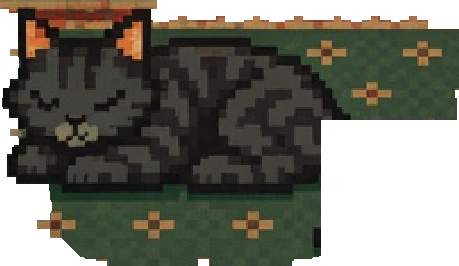
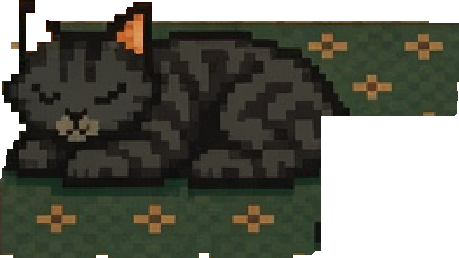
Santa with cookies, toys, stockings sway, glints, mice tails, firelight shadows

diff --git a/index.html b/index.html
@@ -4,16 +4,30 @@ html,body{margin:0;height:100%;background:#0d0a0a;overflow:hidden}
 .s{position:absolute;left:50%;top:50%;transform:translate(-50%,-50%);width:max(100vw,177.78vh);height:max(56.25vw,100vh);background:url(bg.png) 0 0/100% 100%;image-rendering:pixelated;overflow:hidden}
 @media (max-aspect-ratio:4/3){.s{width:min(100vw,177.78vh);height:min(56.25vw,100vh)}}
 .s>*{position:absolute;pointer-events:none;image-rendering:pixelated}
-#snow{left:5.339%;top:10.526%;width:12.562%;height:26.475%;z-index:1}.lt{width:.45%;height:.8%;margin:-.4% 0 0 -.22%;background:radial-gradient(circle,rgba(255,250,200,.95) 0 25%,rgba(255,210,110,.5) 45%,transparent 70%);z-index:5;animation:tw 2s steps(3) infinite}@keyframes tw{0%,100%{opacity:.15}50%{opacity:1}}.wframe{z-index:2}
+#snow{left:5.384%;top:10.526%;width:12.427%;height:26.555%;z-index:1}.lt{width:.45%;height:.8%;margin:-.4% 0 0 -.22%;background:radial-gradient(circle,rgba(255,250,200,.95) 0 25%,rgba(255,210,110,.5) 45%,transparent 70%);z-index:5;animation:tw 2s steps(3) infinite}@keyframes tw{0%,100%{opacity:.15}50%{opacity:1}}.wframe{z-index:2}.santa,.sarm{z-index:3}[class*=stk],[class*=mt]{z-index:2}
+@keyframes cookie{0%,55%,100%{transform:rotate(0)}70%{transform:rotate(6deg)}82%{transform:rotate(-1deg)}88%{transform:rotate(0)}}
+@keyframes stk{0%,100%{transform:rotate(-1.6deg)}50%{transform:rotate(1.6deg)}}
+@keyframes wig{0%,80%,100%{transform:rotate(0)}85%{transform:rotate(-12deg)}90%{transform:rotate(8deg)}95%{transform:rotate(-4deg)}}
+.gl{width:calc(var(--z)*.6%);height:calc(var(--z)*1.07%);margin:calc(var(--z)*-.3%) 0 0 calc(var(--z)*-.53%);z-index:5;background:linear-gradient(#fff8d0,#fff8d0) center/22% 100% no-repeat,linear-gradient(#fff8d0,#fff8d0) center/100% 22% no-repeat;opacity:0;animation:gl 5s steps(4) infinite}
+@keyframes gl{0%,82%,100%{opacity:0;transform:scale(.4)}88%{opacity:.9;transform:scale(1)}94%{opacity:.3;transform:scale(.6)}}
 #fire{left:38.896%;top:33.094%;width:21.983%;height:28.708%;opacity:.9;mix-blend-mode:screen;--m:linear-gradient(90deg,transparent,#000 12%,#000 88%,transparent),linear-gradient(transparent 0,transparent 15%,#000 65%);-webkit-mask-image:var(--m);mask-image:var(--m);-webkit-mask-composite:source-in;mask-composite:intersect}
 .front{z-index:2}.ttail,.tbody,.ktail,.kbody,.khead{z-index:3}
+.santa{left:6.236%;top:31.419%;width:21.579%;height:44.577%;transform-origin:50% 100%;animation:br 4.8s ease-in-out infinite}
+.sarm{left:16.106%;top:44.258%;width:7.313%;height:9.569%;transform-origin:80.4% 90.8%;animation:cookie 6s ease-in-out infinite}
+.stk0{left:59.578%;top:19.458%;width:4.711%;height:14.035%;transform-origin:49.5% 0.0%;animation:stk 3.20s ease-in-out infinite -0.0s}
+.stk1{left:35.711%;top:19.537%;width:4.800%;height:13.955%;transform-origin:54.2% 0.0%;animation:stk 3.65s ease-in-out infinite -0.7s}
+.stk2{left:48.183%;top:19.537%;width:4.172%;height:13.158%;transform-origin:51.6% 0.0%;animation:stk 4.10s ease-in-out infinite -1.4s}
+.stk3{left:42.351%;top:19.139%;width:4.127%;height:13.557%;transform-origin:51.1% 0.0%;animation:stk 4.55s ease-in-out infinite -2.1s}
+.stk4{left:54.195%;top:19.219%;width:4.083%;height:13.477%;transform-origin:51.6% 0.0%;animation:stk 5.00s ease-in-out infinite -2.8s}
+.mt0{left:68.506%;top:90.271%;width:1.570%;height:2.233%;transform-origin:0.0% 35.7%;animation:wig 7s ease-in-out infinite -0s}
+.mt1{left:73.127%;top:93.301%;width:3.365%;height:3.030%;transform-origin:0.0% 34.2%;animation:wig 9s ease-in-out infinite -3s}
 .front{left:38.896%;top:43.062%;width:21.983%;height:18.740%;transform-origin:50% 100%;animation:none}
 .ttail{left:48.362%;top:62.121%;width:4.666%;height:9.250%;transform-origin:47.1% 0.9%;animation:sway 7s ease-in-out infinite}
-.tbody{left:36.205%;top:52.951%;width:16.151%;height:18.421%;transform-origin:50% 100%;animation:br 4.4s ease-in-out infinite}
-.ktail{left:52.355%;top:84.370%;width:6.101%;height:10.845%;transform-origin:5.9% 67.6%;animation:flick 9s ease-in-out infinite}
-.kbody{left:37.954%;top:74.801%;width:20.592%;height:21.212%;transform-origin:50% 100%;animation:br 5.2s ease-in-out infinite -2s}
-.khead{left:37.954%;top:74.801%;width:6.819%;height:21.212%;transform-origin:99.3% 89.5%;animation:bob 11s ease-in-out infinite}
-.wframe{left:5.070%;top:10.048%;width:13.100%;height:27.432%;transform-origin:50% 50%;animation:none}
+.tbody{left:36.205%;top:52.951%;width:16.779%;height:18.421%;transform-origin:50% 100%;animation:br 4.4s ease-in-out infinite}
+.ktail{left:52.355%;top:84.769%;width:6.146%;height:10.766%;transform-origin:5.8% 65.9%;animation:flick 9s ease-in-out infinite}
+.kbody{left:37.954%;top:75.518%;width:20.592%;height:20.574%;transform-origin:50% 100%;animation:br 5.2s ease-in-out infinite -2s}
+.khead{left:37.954%;top:75.518%;width:6.819%;height:20.574%;transform-origin:99.3% 89.5%;animation:bob 11s ease-in-out infinite}
+.wframe{left:5.114%;top:10.048%;width:12.965%;height:27.512%;transform-origin:50% 50%;animation:none}
 @keyframes br{0%,100%{transform:scaleY(1)}50%{transform:scaleY(1.018)}}
 @keyframes sway{0%,100%{transform:rotate(-3deg)}50%{transform:rotate(4deg)}}
 @keyframes flick{0%,80%,100%{transform:rotate(0)}84%{transform:rotate(-9deg)}88%{transform:rotate(3deg)}92%{transform:rotate(-5deg)}}
@@ -26,61 +40,86 @@ html,body{margin:0;height:100%;background:#0d0a0a;overflow:hidden}
 </style></head><body><div class="s">
 <canvas id="snow" width="64" height="76"></canvas>
 <canvas id="fire" width="96" height="72"></canvas>
+<img class="sp santa" src="santa.png" alt="">
+<img class="sp sarm" src="sarm.png" alt="">
+<img class="sp stk0" src="stk0.png" alt="">
+<img class="sp stk1" src="stk1.png" alt="">
+<img class="sp stk2" src="stk2.png" alt="">
+<img class="sp stk3" src="stk3.png" alt="">
+<img class="sp stk4" src="stk4.png" alt="">
+<img class="sp mt0" src="mt0.png" alt="">
+<img class="sp mt1" src="mt1.png" alt="">
+<i class="gl" style="left:25.71%;top:27.75%;--z:0.5;animation-duration:4.3s;animation-delay:-0.9s"></i>
+<i class="gl" style="left:79.59%;top:6.94%;--z:1.1;animation-duration:5.6s;animation-delay:-0.4s"></i>
+<i class="gl" style="left:72.27%;top:78.95%;--z:0.5;animation-duration:5.1s;animation-delay:-2.2s"></i>
+<i class="gl" style="left:71.78%;top:79.74%;--z:0.4;animation-duration:3.2s;animation-delay:-3.0s"></i>
+<i class="gl" style="left:28.31%;top:74.32%;--z:0.6;animation-duration:3.1s;animation-delay:-2.6s"></i>
+<i class="gl" style="left:31.27%;top:83.01%;--z:0.6;animation-duration:3.3s;animation-delay:-0.5s"></i>
+<i class="gl" style="left:34.19%;top:88.52%;--z:0.6;animation-duration:4.7s;animation-delay:-5.0s"></i>
+<i class="gl" style="left:72.27%;top:65.07%;--z:0.6;animation-duration:3.5s;animation-delay:-1.3s"></i>
+<i class="gl" style="left:79.59%;top:70.33%;--z:0.6;animation-duration:5.5s;animation-delay:-5.7s"></i>
+<i class="gl" style="left:8.03%;top:64.27%;--z:0.5;animation-duration:5.3s;animation-delay:-2.4s"></i>
 <img class="sp front" src="front.png" alt="">
 <img class="sp ttail" src="ttail.png" alt="">
 <img class="sp tbody" src="tbody.png" alt="">
 <img class="sp ktail" src="ktail.png" alt="">
 <img class="sp kbody" src="kbody.png" alt="">
 <img class="sp khead" src="khead.png" alt="">
-<i class="lt" style="left:78.80%;top:10.81%;animation-duration:1.92s;animation-delay:-1.63s"></i>
-<i class="lt" style="left:79.61%;top:15.79%;animation-duration:2.21s;animation-delay:-1.81s"></i>
-<i class="lt" style="left:81.65%;top:18.78%;animation-duration:2.78s;animation-delay:-0.20s"></i>
-<i class="lt" style="left:79.78%;top:21.35%;animation-duration:1.43s;animation-delay:-2.51s"></i>
-<i class="lt" style="left:77.39%;top:24.08%;animation-duration:1.97s;animation-delay:-0.70s"></i>
-<i class="lt" style="left:82.94%;top:24.11%;animation-duration:3.59s;animation-delay:-1.41s"></i>
-<i class="lt" style="left:81.20%;top:26.20%;animation-duration:3.24s;animation-delay:-1.43s"></i>
-<i class="lt" style="left:79.05%;top:28.51%;animation-duration:2.81s;animation-delay:-0.45s"></i>
-<i class="lt" style="left:81.39%;top:30.72%;animation-duration:2.80s;animation-delay:-2.60s"></i>
-<i class="lt" style="left:77.68%;top:31.46%;animation-duration:2.55s;animation-delay:-2.22s"></i>
-<i class="lt" style="left:76.00%;top:34.29%;animation-duration:2.88s;animation-delay:-0.19s"></i>
-<i class="lt" style="left:84.52%;top:34.60%;animation-duration:3.07s;animation-delay:-1.77s"></i>
-<i class="lt" style="left:78.95%;top:35.92%;animation-duration:2.06s;animation-delay:-0.09s"></i>
-<i class="lt" style="left:79.09%;top:35.61%;animation-duration:3.30s;animation-delay:-1.42s"></i>
-<i class="lt" style="left:75.68%;top:37.92%;animation-duration:2.98s;animation-delay:-2.64s"></i>
-<i class="lt" style="left:82.48%;top:38.16%;animation-duration:2.97s;animation-delay:-2.76s"></i>
-<i class="lt" style="left:82.53%;top:38.66%;animation-duration:2.27s;animation-delay:-2.40s"></i>
-<i class="lt" style="left:85.94%;top:40.72%;animation-duration:2.38s;animation-delay:-2.81s"></i>
-<i class="lt" style="left:78.76%;top:42.39%;animation-duration:3.33s;animation-delay:-0.29s"></i>
-<i class="lt" style="left:81.44%;top:43.99%;animation-duration:1.70s;animation-delay:-0.65s"></i>
-<i class="lt" style="left:76.53%;top:43.98%;animation-duration:3.52s;animation-delay:-1.31s"></i>
-<i class="lt" style="left:81.67%;top:44.54%;animation-duration:2.78s;animation-delay:-0.90s"></i>
-<i class="lt" style="left:86.47%;top:45.05%;animation-duration:2.52s;animation-delay:-1.16s"></i>
-<i class="lt" style="left:83.60%;top:45.77%;animation-duration:2.17s;animation-delay:-1.76s"></i>
-<i class="lt" style="left:78.33%;top:46.81%;animation-duration:2.69s;animation-delay:-2.71s"></i>
-<i class="lt" style="left:85.58%;top:48.14%;animation-duration:2.90s;animation-delay:-2.79s"></i>
-<i class="lt" style="left:85.76%;top:47.97%;animation-duration:3.28s;animation-delay:-2.97s"></i>
-<i class="lt" style="left:87.86%;top:49.72%;animation-duration:2.88s;animation-delay:-0.49s"></i>
-<i class="lt" style="left:81.61%;top:50.01%;animation-duration:3.29s;animation-delay:-2.89s"></i>
-<i class="lt" style="left:75.77%;top:50.40%;animation-duration:3.39s;animation-delay:-1.71s"></i>
-<i class="lt" style="left:84.51%;top:51.22%;animation-duration:2.97s;animation-delay:-0.63s"></i>
-<i class="lt" style="left:79.30%;top:52.67%;animation-duration:3.23s;animation-delay:-1.72s"></i>
-<i class="lt" style="left:87.99%;top:54.42%;animation-duration:2.03s;animation-delay:-0.19s"></i>
-<i class="lt" style="left:74.63%;top:55.34%;animation-duration:3.28s;animation-delay:-2.97s"></i>
-<i class="lt" style="left:83.45%;top:55.58%;animation-duration:1.59s;animation-delay:-2.40s"></i>
-<i class="lt" style="left:78.25%;top:57.17%;animation-duration:2.30s;animation-delay:-0.45s"></i>
-<i class="lt" style="left:82.49%;top:58.34%;animation-duration:2.05s;animation-delay:-2.31s"></i>
-<i class="lt" style="left:86.42%;top:58.72%;animation-duration:3.32s;animation-delay:-0.13s"></i>
-<i class="lt" style="left:80.44%;top:59.13%;animation-duration:2.75s;animation-delay:-0.13s"></i>
-<i class="lt" style="left:75.01%;top:59.38%;animation-duration:2.98s;animation-delay:-0.99s"></i>
-<i class="lt" style="left:75.01%;top:59.77%;animation-duration:3.34s;animation-delay:-2.94s"></i>
-<i class="lt" style="left:89.69%;top:61.12%;animation-duration:2.51s;animation-delay:-3.00s"></i>
-<i class="lt" style="left:81.08%;top:62.71%;animation-duration:2.08s;animation-delay:-0.23s"></i>
-<i class="lt" style="left:76.40%;top:63.92%;animation-duration:2.72s;animation-delay:-0.09s"></i>
-<i class="lt" style="left:79.00%;top:64.51%;animation-duration:1.83s;animation-delay:-1.22s"></i>
-<i class="lt" style="left:87.92%;top:64.66%;animation-duration:2.74s;animation-delay:-0.47s"></i>
-<i class="lt" style="left:84.94%;top:64.85%;animation-duration:1.49s;animation-delay:-2.60s"></i>
-<i class="lt" style="left:82.53%;top:67.04%;animation-duration:2.09s;animation-delay:-2.88s"></i>
-<i class="lt" style="left:78.89%;top:67.73%;animation-duration:3.37s;animation-delay:-1.13s"></i>
+<i class="lt" style="left:79.60%;top:15.79%;animation-duration:1.92s;animation-delay:-1.63s"></i>
+<i class="lt" style="left:81.68%;top:18.80%;animation-duration:2.21s;animation-delay:-1.81s"></i>
+<i class="lt" style="left:79.81%;top:21.42%;animation-duration:2.78s;animation-delay:-0.20s"></i>
+<i class="lt" style="left:77.28%;top:24.00%;animation-duration:1.43s;animation-delay:-2.51s"></i>
+<i class="lt" style="left:77.50%;top:24.20%;animation-duration:1.97s;animation-delay:-0.70s"></i>
+<i class="lt" style="left:83.00%;top:24.16%;animation-duration:3.59s;animation-delay:-1.41s"></i>
+<i class="lt" style="left:77.32%;top:24.36%;animation-duration:3.24s;animation-delay:-1.43s"></i>
+<i class="lt" style="left:81.18%;top:26.24%;animation-duration:2.81s;animation-delay:-0.45s"></i>
+<i class="lt" style="left:81.36%;top:26.12%;animation-duration:2.80s;animation-delay:-2.60s"></i>
+<i class="lt" style="left:79.07%;top:28.50%;animation-duration:2.55s;animation-delay:-2.22s"></i>
+<i class="lt" style="left:81.47%;top:30.67%;animation-duration:2.88s;animation-delay:-0.19s"></i>
+<i class="lt" style="left:83.69%;top:30.42%;animation-duration:3.07s;animation-delay:-1.77s"></i>
+<i class="lt" style="left:83.69%;top:30.86%;animation-duration:2.06s;animation-delay:-0.09s"></i>
+<i class="lt" style="left:77.73%;top:31.42%;animation-duration:3.30s;animation-delay:-1.42s"></i>
+<i class="lt" style="left:81.18%;top:30.98%;animation-duration:2.98s;animation-delay:-2.64s"></i>
+<i class="lt" style="left:76.01%;top:34.34%;animation-duration:2.97s;animation-delay:-2.76s"></i>
+<i class="lt" style="left:78.85%;top:35.65%;animation-duration:2.27s;animation-delay:-2.40s"></i>
+<i class="lt" style="left:78.85%;top:36.16%;animation-duration:2.38s;animation-delay:-2.81s"></i>
+<i class="lt" style="left:79.05%;top:36.16%;animation-duration:3.33s;animation-delay:-0.29s"></i>
+<i class="lt" style="left:75.73%;top:37.87%;animation-duration:1.70s;animation-delay:-0.65s"></i>
+<i class="lt" style="left:82.52%;top:38.70%;animation-duration:3.52s;animation-delay:-1.31s"></i>
+<i class="lt" style="left:85.89%;top:40.39%;animation-duration:2.78s;animation-delay:-0.90s"></i>
+<i class="lt" style="left:86.07%;top:40.31%;animation-duration:2.52s;animation-delay:-1.16s"></i>
+<i class="lt" style="left:85.95%;top:40.88%;animation-duration:2.17s;animation-delay:-1.76s"></i>
+<i class="lt" style="left:78.80%;top:42.46%;animation-duration:2.69s;animation-delay:-2.71s"></i>
+<i class="lt" style="left:76.58%;top:43.93%;animation-duration:2.90s;animation-delay:-2.79s"></i>
+<i class="lt" style="left:81.46%;top:43.99%;animation-duration:3.28s;animation-delay:-2.97s"></i>
+<i class="lt" style="left:83.65%;top:45.89%;animation-duration:2.88s;animation-delay:-0.49s"></i>
+<i class="lt" style="left:78.38%;top:46.82%;animation-duration:3.29s;animation-delay:-2.89s"></i>
+<i class="lt" style="left:89.93%;top:46.85%;animation-duration:3.39s;animation-delay:-1.71s"></i>
+<i class="lt" style="left:85.60%;top:48.37%;animation-duration:2.97s;animation-delay:-0.63s"></i>
+<i class="lt" style="left:87.91%;top:49.72%;animation-duration:3.23s;animation-delay:-1.72s"></i>
+<i class="lt" style="left:81.67%;top:50.00%;animation-duration:2.03s;animation-delay:-0.19s"></i>
+<i class="lt" style="left:75.78%;top:50.46%;animation-duration:3.28s;animation-delay:-2.97s"></i>
+<i class="lt" style="left:84.56%;top:51.28%;animation-duration:1.59s;animation-delay:-2.40s"></i>
+<i class="lt" style="left:79.34%;top:52.72%;animation-duration:2.30s;animation-delay:-0.45s"></i>
+<i class="lt" style="left:88.13%;top:54.59%;animation-duration:2.05s;animation-delay:-2.31s"></i>
+<i class="lt" style="left:72.61%;top:55.14%;animation-duration:3.32s;animation-delay:-0.13s"></i>
+<i class="lt" style="left:74.72%;top:55.46%;animation-duration:2.75s;animation-delay:-0.13s"></i>
+<i class="lt" style="left:83.51%;top:55.59%;animation-duration:2.98s;animation-delay:-0.99s"></i>
+<i class="lt" style="left:78.33%;top:57.26%;animation-duration:3.34s;animation-delay:-2.94s"></i>
+<i class="lt" style="left:86.45%;top:58.49%;animation-duration:2.51s;animation-delay:-3.00s"></i>
+<i class="lt" style="left:80.44%;top:59.21%;animation-duration:2.08s;animation-delay:-0.23s"></i>
+<i class="lt" style="left:86.39%;top:58.94%;animation-duration:2.72s;animation-delay:-0.09s"></i>
+<i class="lt" style="left:89.71%;top:61.22%;animation-duration:1.83s;animation-delay:-1.22s"></i>
+<i class="lt" style="left:81.17%;top:62.85%;animation-duration:2.74s;animation-delay:-0.47s"></i>
+<i class="lt" style="left:76.42%;top:64.07%;animation-duration:1.49s;animation-delay:-2.60s"></i>
+<i class="lt" style="left:78.94%;top:64.47%;animation-duration:2.09s;animation-delay:-2.88s"></i>
+<i class="lt" style="left:79.16%;top:64.47%;animation-duration:3.37s;animation-delay:-1.13s"></i>
+<i class="lt" style="left:91.81%;top:64.47%;animation-duration:2.41s;animation-delay:-1.56s"></i>
+<i class="lt" style="left:84.97%;top:64.91%;animation-duration:2.82s;animation-delay:-1.79s"></i>
+<i class="lt" style="left:79.16%;top:64.83%;animation-duration:2.63s;animation-delay:-1.86s"></i>
+<i class="lt" style="left:82.54%;top:67.12%;animation-duration:3.47s;animation-delay:-1.52s"></i>
+<i class="lt" style="left:78.95%;top:67.77%;animation-duration:2.35s;animation-delay:-2.16s"></i>
+<i class="lt" style="left:81.18%;top:69.90%;animation-duration:1.92s;animation-delay:-0.90s"></i>
 <img class="sp wframe" src="wframe.png" alt="">
 <div id="glow"></div>
 <i class="e" style="left:47%"></i><i class="e" style="left:50%;animation-delay:-1.1s"></i><i class="e" style="left:54%;animation-delay:-2.2s"></i>
@@ -93,7 +132,7 @@ const F=new Uint8Array(w*h);for(let i=0;i<w;i++){const d=Math.abs(i-w/2)/(w/2);F
 const img=x.createImageData(w,h),g=document.getElementById('glow'),rm=matchMedia('(prefers-reduced-motion: reduce)').matches;let last=0;
 let step=function(){for(let X=0;X<w;X++)for(let Y=1;Y<h;Y++){const s=Y*w+X,p=F[s];if(!p){F[s-w]=0;continue}const r=Math.random()*3.4|0,d=s-r+1;F[Math.max(0,d-w)]=Math.max(0,p-(Math.random()<.55?1:0)-(Math.random()<(1-Y/h)*.9?1:0)-(Math.random()<.04?3:0))}
 for(let i=0;i<w*h;i++){const q=P[F[i]];img.data.set(q,i*4)}x.putImageData(img,0,0)}
-function loop(t){if(t-last>33){last=t;step();g.style.opacity=.75+Math.random()*.25}requestAnimationFrame(loop)}
+function loop(t){if(t-last>33){last=t;step();g.style.opacity=.75+Math.random()*.25;g.style.transform='translate('+(Math.random()-.5)*.6+'%,'+(Math.random()-.5)*.4+'%)'}requestAnimationFrame(loop)}
 const sc=document.getElementById('snow'),sx=sc.getContext('2d'),fl=[...Array(28)].map(()=>[Math.random()*64,Math.random()*76,.15+Math.random()*.35]);
 function snow(){sx.clearRect(0,0,64,76);sx.fillStyle='#e8f0ff';fl.forEach(f=>{f[1]+=f[2];f[0]+=Math.sin(f[1]/7)*.15;if(f[1]>76){f[1]=-1;f[0]=Math.random()*64}sx.fillRect(f[0]|0,f[1]|0,1,1)})}
 const _st=step;step=function(){_st();snow()};
